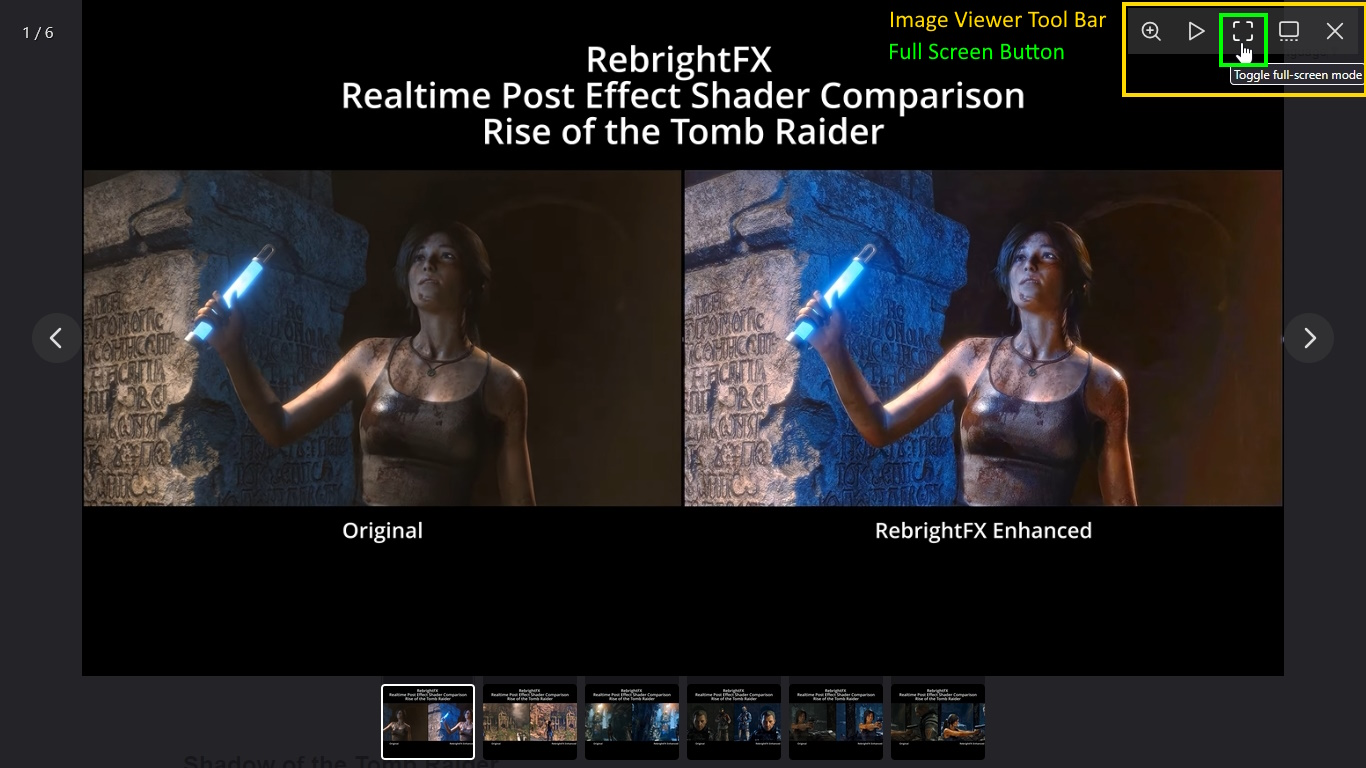
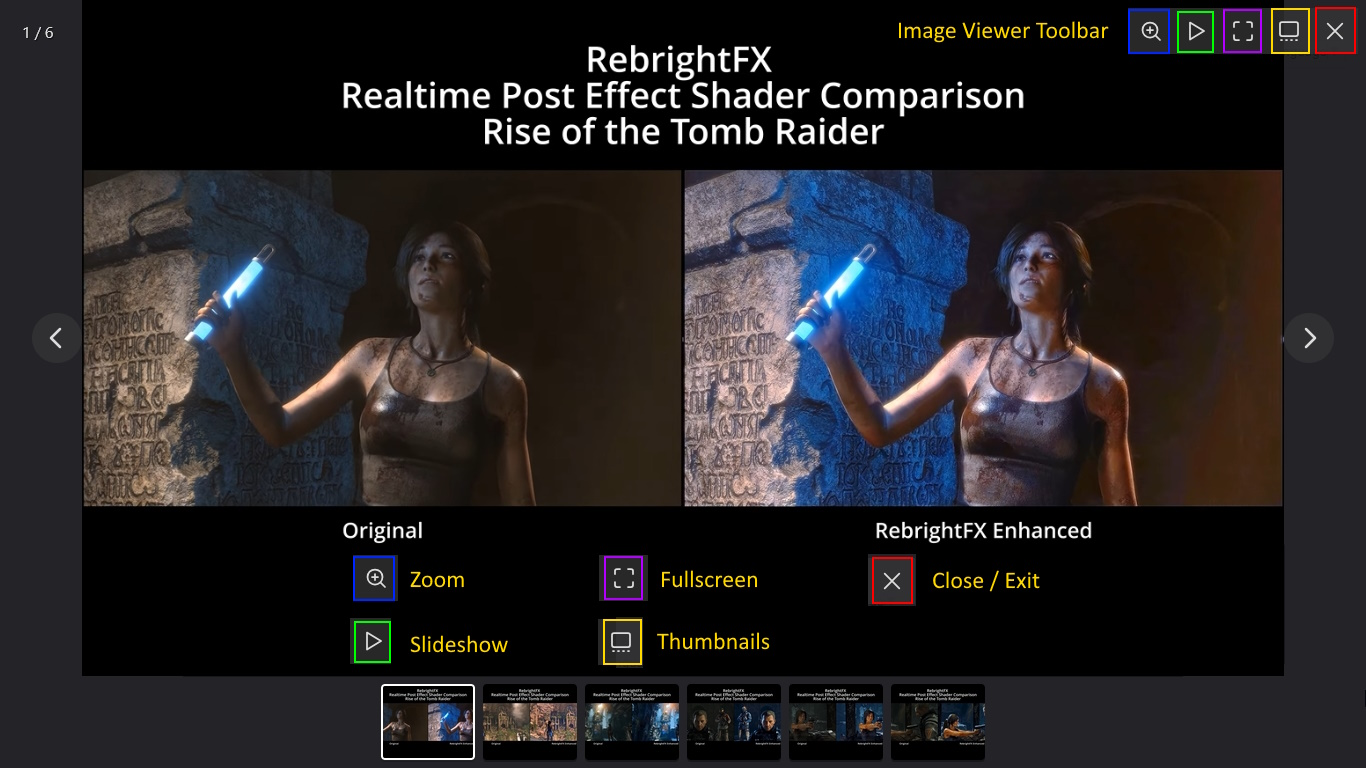
image toolbar reference update

diff --git a/_projects/rebrightfx_post_effects.md b/_projects/rebrightfx_post_effects.md
@@ -95,15 +95,11 @@ Image Swiper - A/B Comparison - Original VS RebrightFX
 Image Viewer - Side by Side Comparison <br/>
 <br/>
 Images are best viewed full-screen with the bottom thumbnail navigation turned off.<br/>
-Click on an image in the image slider to enter exclusive viewing mode, then use the image viewer toolbar located in the upper right corner for toggling the bottom thumbnails and fullscreen mode.
+Click on an image in the image viewers below to enter exclusive viewing mode, then use the image viewer toolbar located in the upper right corner for toggling the bottom thumbnails and fullscreen mode.
 <br/>
-Image Toolbar Reference Images:<br/>
+Image Toolbar Reference Image:<br/>
 
 ![Fullscreen Button]({{"/images/rebrightfx/ui/image-viewer-toolbar-fullscreen-button.jpg" | relative_url}})
-
-<br/>
-
-![Thumbnail Button]({{"/images/rebrightfx/ui/image-viewer-toolbar-thumbnail-button.jpg | relative_url}})
 
 <br/>
 
